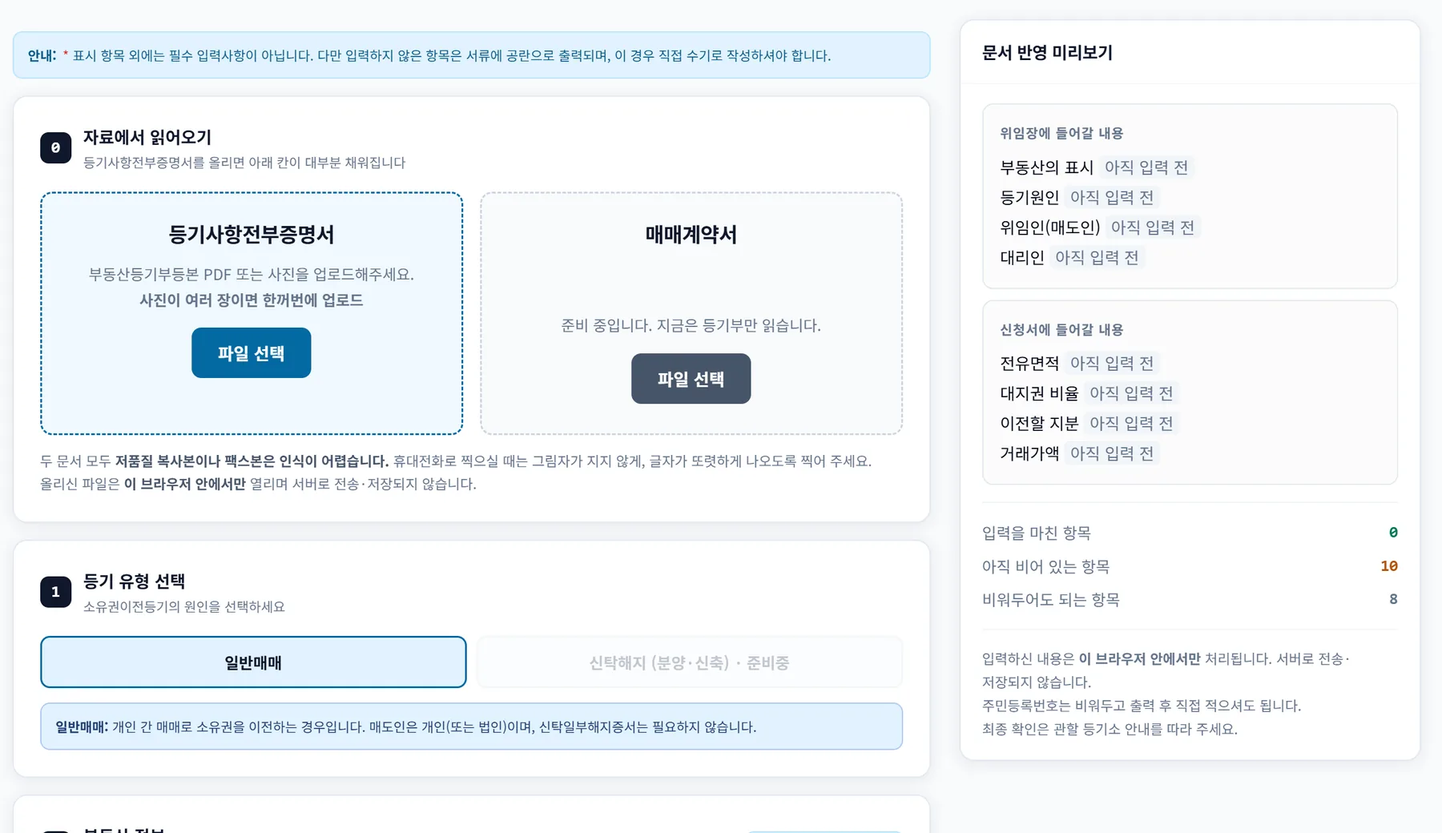
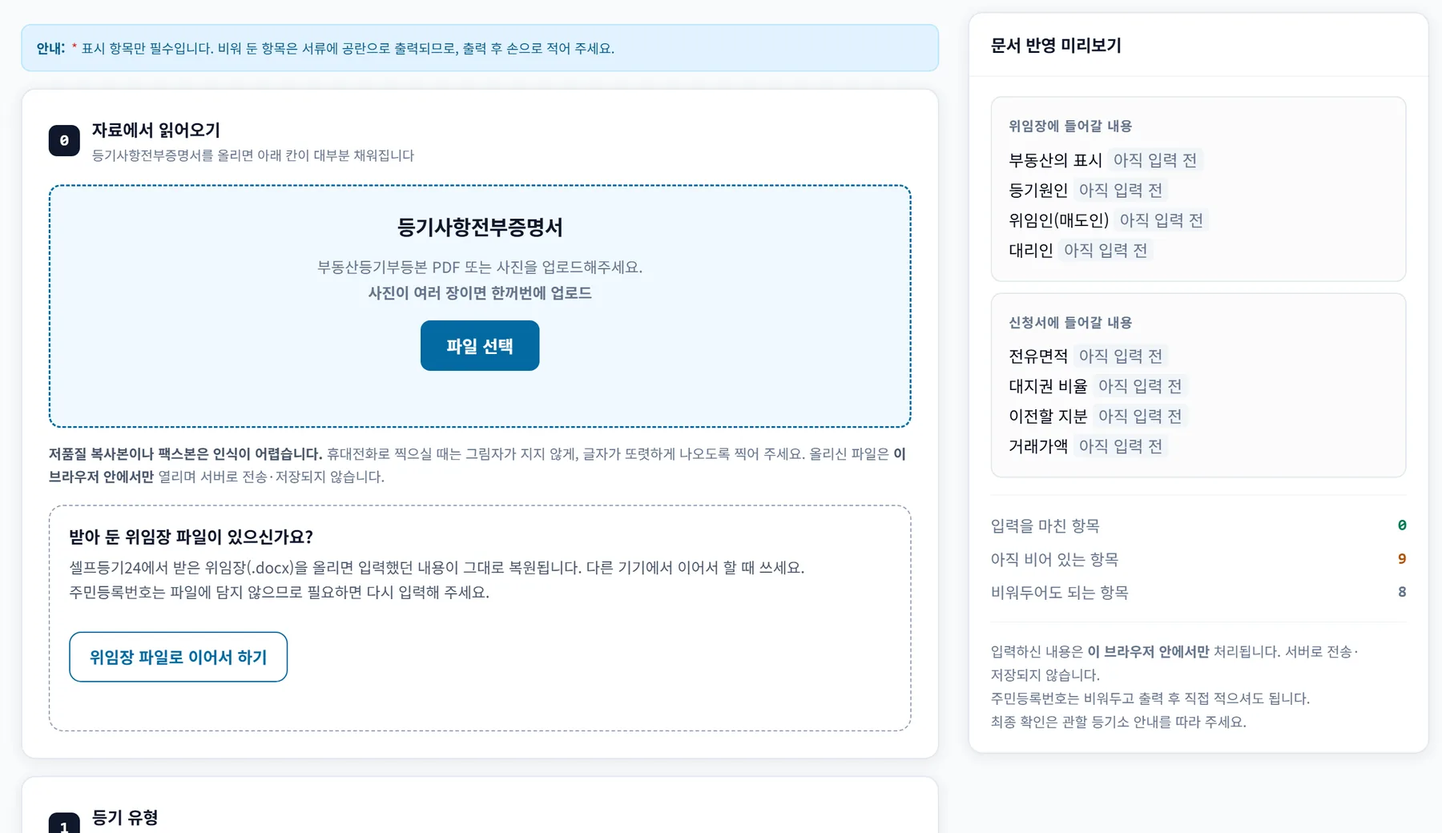
「준비 중」 노출 정리 · 토스 앱 QR 결제 안내
- 홈: 선택할 수 없던 대지지분 별도등기 카드 제거(말소를 케이스 B로), 진단 결과·FAQ를 「자동완성 대상 아님」으로, 「순차 추가 예정」 문구 삭제
- 서류 작성: 신탁해지 비활성 탭·매매계약서 업로드 칸 제거, 지원 범위(집합건물 일반매매) 명시
- 증여 계산기·가이드: 「준비 중」 문구 정리(재현 이미지 표기는 유지)
- 결제 안내: 토스 앱 결제, PC는 QR을 휴대폰 토스 앱으로 찍는다는 문구를 결제 버튼 아래·결제 안내창에 추가
- 홈 히어로 서류 작성 화면 캡처 갱신(제거된 칸 반영)

diff --git a/index.html b/index.html
@@ -41,7 +41,7 @@
 <meta name="twitter:card" content="summary_large_image">
 <link rel="canonical" href="https://www.selfregi24.com/">
 <script type="application/ld+json">
-{"@context":"https://schema.org","@type":"FAQPage","mainEntity":[{"@type":"Question","name":"셀프등기, 정말 혼자 할 수 있나요?","acceptedAnswer":{"@type":"Answer","text":"부동산등기는 법무사 선임 의무가 없어 본인이 직접 신청할 수 있습니다. 셀프등기24는 서류 자동완성 도구와 단계별 절차 안내를 제공합니다. 개별 사안의 최종 확인은 관할 등기소 안내를 따라 주세요."}},{"@type":"Question","name":"직접 하면 시간이 얼마나 드나요?","acceptedAnswer":{"@type":"Answer","text":"절차에 익숙한 정도에 따라 다릅니다. 서류 발급, 취득세 신고, 국민주택채권 매입 등 온라인으로 할 수 있는 일을 일찍 끝낼수록 줄어들고, 마지막에는 관할 등기소에 한 번 방문해 서류를 제출하면 됩니다. 셀프등기24는 단계별 가이드와 위임장·소유권이전등기 신청서 자동완성으로 정보를 찾아보고 확인하는 시간을 줄입니다."}},{"@type":"Question","name":"잔금대출이 있어도 셀프등기가 가능한가요?","acceptedAnswer":{"@type":"Answer","text":"대출 은행이 허용해야 가능합니다. 잔금대출은 은행과 연계된 법무사가 근저당권설정등기를 맡는 것이 일반적이어서, 은행이 승인하지 않으면 소유권이전등기만 직접 하기는 어렵습니다. 대출을 신청할 때 셀프등기가 가능한지 은행에 먼저 문의하세요."}},{"@type":"Question","name":"근저당권 말소도 직접 할 수 있나요?","acceptedAnswer":{"@type":"Answer","text":"대출금을 전부 상환해도 등기부 을구에 기록된 근저당권은 자동으로 지워지지 않아, 말소등기를 따로 신청해야 합니다. 직접 신청하면 공과금 실비만 들며, 등기 대상 1건 기준 11,200원입니다(등록면허세 6,000원 + 지방교육세 1,200원 + 등기신청수수료 4,000원, 서면 접수 기준). 은행은 대개 협약 법무사를 통한 말소를 안내하며 이 경우 대행 보수가 별도로 발생합니다. 절차와 준비서류는 근저당권 말소 가이드에서 무료로 확인하실 수 있습니다."}},{"@type":"Question","name":"개인정보는 어떻게 처리되나요?","acceptedAnswer":{"@type":"Answer","text":"주민등록번호 등 민감정보는 서버에 저장하지 않으며, 문서 생성은 이용자 기기 안에서 이루어집니다. 민감정보를 기재하지 않아도 서류 생성이 가능하며, 빈칸은 출력 후 손으로 기재하시면 됩니다."}},{"@type":"Question","name":"케이스 A와 B의 차이가 뭔가요?","acceptedAnswer":{"@type":"Answer","text":"케이스 A는 매매계약을 맺고 잔금을 치른 뒤 소유권을 넘겨받는 일반적인 경우입니다. 케이스 B는 건물에 대지지분(대지권)이 등기되어 있지 않아 대지권 등기를 함께 진행해야 하는 경우입니다."}}]}
+{"@context":"https://schema.org","@type":"FAQPage","mainEntity":[{"@type":"Question","name":"셀프등기, 정말 혼자 할 수 있나요?","acceptedAnswer":{"@type":"Answer","text":"부동산등기는 법무사 선임 의무가 없어 본인이 직접 신청할 수 있습니다. 셀프등기24는 서류 자동완성 도구와 단계별 절차 안내를 제공합니다. 개별 사안의 최종 확인은 관할 등기소 안내를 따라 주세요."}},{"@type":"Question","name":"직접 하면 시간이 얼마나 드나요?","acceptedAnswer":{"@type":"Answer","text":"절차에 익숙한 정도에 따라 다릅니다. 서류 발급, 취득세 신고, 국민주택채권 매입 등 온라인으로 할 수 있는 일을 일찍 끝낼수록 줄어들고, 마지막에는 관할 등기소에 한 번 방문해 서류를 제출하면 됩니다. 셀프등기24는 단계별 가이드와 위임장·소유권이전등기 신청서 자동완성으로 정보를 찾아보고 확인하는 시간을 줄입니다."}},{"@type":"Question","name":"잔금대출이 있어도 셀프등기가 가능한가요?","acceptedAnswer":{"@type":"Answer","text":"대출 은행이 허용해야 가능합니다. 잔금대출은 은행과 연계된 법무사가 근저당권설정등기를 맡는 것이 일반적이어서, 은행이 승인하지 않으면 소유권이전등기만 직접 하기는 어렵습니다. 대출을 신청할 때 셀프등기가 가능한지 은행에 먼저 문의하세요."}},{"@type":"Question","name":"근저당권 말소도 직접 할 수 있나요?","acceptedAnswer":{"@type":"Answer","text":"대출금을 전부 상환해도 등기부 을구에 기록된 근저당권은 자동으로 지워지지 않아, 말소등기를 따로 신청해야 합니다. 직접 신청하면 공과금 실비만 들며, 등기 대상 1건 기준 11,200원입니다(등록면허세 6,000원 + 지방교육세 1,200원 + 등기신청수수료 4,000원, 서면 접수 기준). 은행은 대개 협약 법무사를 통한 말소를 안내하며 이 경우 대행 보수가 별도로 발생합니다. 절차와 준비서류는 근저당권 말소 가이드에서 무료로 확인하실 수 있습니다."}},{"@type":"Question","name":"개인정보는 어떻게 처리되나요?","acceptedAnswer":{"@type":"Answer","text":"주민등록번호 등 민감정보는 서버에 저장하지 않으며, 문서 생성은 이용자 기기 안에서 이루어집니다. 민감정보를 기재하지 않아도 서류 생성이 가능하며, 빈칸은 출력 후 손으로 기재하시면 됩니다."}},{"@type":"Question","name":"대지지분 별도등기는 무엇인가요?","acceptedAnswer":{"@type":"Answer","text":"건물에 대지지분(대지권)이 등기되어 있지 않아 대지권 등기를 따로 진행해야 하는 경우입니다. 등기부등본 표제부에 「대지권의 표시」가 없으면 해당할 수 있습니다. 셀프등기24는 이 등기의 서류를 자동완성하지 않으며, 매매에 따른 소유권이전(케이스 A)과 근저당권 말소(케이스 B)를 지원합니다."}}]}
 </script><link rel="preload" as="style" href="https://fonts.googleapis.com/css2?family=Noto+Sans+KR:wght@400;500;700;800&display=swap" onload="this.onload=null;this.rel='stylesheet'">
 <noscript><link rel="stylesheet" href="https://fonts.googleapis.com/css2?family=Noto+Sans+KR:wght@400;500;700;800&display=swap"></noscript>
 <style>
@@ -789,8 +789,8 @@ footer{background:var(--bg);border-top:1px solid var(--border);margin-top:40px;p
       <div class="faq-a">주민등록번호 등 민감정보는 서버에 저장하지 않으며, 문서 생성은 이용자 기기 안에서 이루어집니다. 민감정보를 기재하지 않아도 서류 생성이 가능하며, 빈칸은 출력 후 손으로 기재하시면 됩니다.</div>
     </div>
     <div class="faq-item">
-      <button class="faq-q" onclick="toggleFaq(this)">케이스 A와 B의 차이가 뭔가요?<span class="ico">+</span></button>
-      <div class="faq-a">케이스 A는 매매계약을 맺고 잔금을 치른 뒤 소유권을 넘겨받는 일반적인 경우입니다. 케이스 B는 건물에 대지지분(대지권)이 등기되어 있지 않아 대지권 등기를 함께 진행해야 하는 경우입니다.</div>
+      <button class="faq-q" onclick="toggleFaq(this)">대지지분 별도등기는 무엇인가요?<span class="ico">+</span></button>
+      <div class="faq-a">건물에 대지지분(대지권)이 등기되어 있지 않아 대지권 등기를 따로 진행해야 하는 경우입니다. 등기부등본 표제부에 「대지권의 표시」가 없으면 해당할 수 있습니다. 셀프등기24는 이 등기의 서류를 자동완성하지 않으며, 매매에 따른 소유권이전(케이스 A)과 근저당권 말소(케이스 B)를 지원합니다.</div>
     </div>
   </div>
 </div>
@@ -850,14 +850,8 @@ footer{background:var(--bg);border-top:1px solid var(--border);margin-top:40px;p
         <div class="c-desc">매매계약을 맺고 잔금을 치른 뒤 소유권을 넘겨받는 가장 일반적인 경우</div>
         <div class="c-when">→ 위임장 및 소유권이전 신청서</div>
       </div>
-      <div class="case-card disabled" data-case="landShare" aria-disabled="true">
-        <div class="c-icon-box">B</div>
-        <div class="c-title">대지지분 별도등기</div>
-        <div class="c-desc">등기부상 건물에 '대지지분'이 없어 대지권 등기를 진행해야 하는 경우</div>
-        <div class="c-when">서비스 준비 중 — 매매 소유권이전(케이스 A)부터 순차 오픈합니다</div>
-      </div>
       <div class="case-card" data-case="cancel" onclick="selectCase('cancel')">
-        <div class="c-icon-box">C</div>
+        <div class="c-icon-box">B</div>
         <div class="c-title">근저당권 말소</div>
         <div class="c-desc">대출을 전부 상환한 뒤, 등기부에 남아 있는 근저당권을 지우는 경우</div>
         <div class="c-when">→ 절차 · 준비서류 · 비용 안내</div>
@@ -897,8 +891,8 @@ footer{background:var(--bg);border-top:1px solid var(--border);margin-top:40px;p
           <button class="opt-btn" data-q="2" data-val="no">아니오 / 모르겠습니다</button>
         </div>
       </div>
-      <div class="ntc hold" id="caseBNotice" style="display:none" role="status"><strong>진단 결과: 대지지분 별도등기(케이스 B)</strong> — 서비스 준비 중이라 서류 자동생성을 제공하지 않습니다. 절차와 준비서류는 <a href="guide.html">셀프등기 가이드</a>에서 확인하실 수 있습니다.</div>
-      <div class="ntc inf"><strong>진단 결과에 따라 케이스가 자동으로 선택됩니다.</strong> 상속·증여 등 다른 등기 케이스도 순차적으로 추가될 예정입니다.</div>
+      <div class="ntc hold" id="caseBNotice" style="display:none" role="status"><strong>진단 결과: 대지지분 별도등기</strong> — 셀프등기24는 이 등기의 서류를 자동완성하지 않습니다. 절차와 준비서류는 <a href="guide.html">셀프등기 가이드</a>에서 확인하실 수 있습니다.</div>
+      <div class="ntc inf"><strong>진단 결과에 따라 케이스가 자동으로 선택됩니다.</strong></div>
     </div>
   </div>
 </div>
@@ -961,8 +955,8 @@ footer{background:var(--bg);border-top:1px solid var(--border);margin-top:40px;p
 /* ===== 케이스 선택 ===== */
 const CASES = {
   general:   { label:'매매계약에 따른 소유권이전 (케이스 A)', url:'normal_form.html',  cta:'이 케이스로 서류 작성 시작하기 →' },
-  landShare: { label:'대지지분 별도등기 (케이스 B · 준비 중)', url:'land_form.html',    cta:'준비 중 — 입력 화면 미리 보기 →' },
-  cancel:    { label:'근저당권 말소 (케이스 C)',          url:'cancel_guide.html', cta:'이 케이스 안내 보기 →' }
+  landShare: { label:'대지지분 별도등기', url:'guide.html',    cta:'셀프등기 가이드 보기 →' },
+  cancel:    { label:'근저당권 말소 (케이스 B)',          url:'cancel_guide.html', cta:'이 케이스 안내 보기 →' }
 };
 /* 접근성: 선택형 카드에 키보드 조작 부여(마우스 전용 → 키보드 사용자도 선택 가능) */
 document.addEventListener('DOMContentLoaded',function(){
@@ -1078,7 +1072,7 @@ document.querySelectorAll('.opt-btn').forEach(btn => {
     if(q==='2'){
       /* 케이스 B는 사라지는 토스트가 아니라 남는 안내로 처리한다(다음 행동이 없는 종착 상태) */
       var bn=document.getElementById('caseBNotice');
-      if(val==='yes'){ if(bn) bn.style.display='block'; showToast('대지지분 별도등기(케이스 B)는 현재 준비 중입니다'); }
+      if(val==='yes'){ if(bn) bn.style.display='block'; showToast('대지지분 별도등기는 서류 자동완성 대상이 아닙니다'); }
       else{ if(bn) bn.style.display='none'; decide('general'); }
     }
   });

diff --git a/guide.html b/guide.html
@@ -602,9 +602,9 @@ gtag('js',new Date());gtag('config','G-DR3W5XWF50');
         <li><b>매입할 은행 선택 (하나은행 예시)</b> 금액을 확인했으면 '국민주택채권매입' 메뉴로 돌아와 본인이 이용할 은행을 선택합니다. 여기서는 '하나은행'을 기준으로 설명합니다.</li>
         <li><b>하나은행 홈페이지 검색창 이용</b> 하나은행 홈페이지에 로그인 후, 우측 상단 돋보기(검색) 아이콘을 누르고 '국민주택채권매입'을 검색합니다.</li>
         <li><b>채권 매입 메뉴로 이동</b> 검색 결과 중 '개인뱅킹 &gt; 주택도시기금 &gt; 국민주택채권 매입' 메뉴를 찾아 클릭하여 진입합니다.</li>
-        <li><b>매입자 정보 및 즉시매도 선택</b> 본인 매입 여부를 체크하고, 앞서 주택도시기금에서 계산해둔 '채권매입금액'을 정확히 입력합니다. 팁: 매도 방법은 대부분 '즉시매도'를 선택합니다. 채권을 5년간 보유할 계획이 아니라면 즉시매도를 선택해 할인된 본인부담금만 내는 방식이 일반적입니다. (재현 이미지 — 실제 화면 캡처는 준비 중입니다)</li>
-        <li><b>본인부담금 결제 및 인증</b> 수수료 등이 포함된 최종 '본인부담금'을 확인하고, 출금 계좌 비밀번호와 공동/금융인증서 암호를 입력해 결제를 진행합니다. (재현 이미지 — 실제 화면 캡처는 준비 중입니다)</li>
-        <li><b>채권발행번호 확인 및 저장</b> 결제가 완료되면 매입 영수증이 나타납니다. 팁: 영수증에 적힌 채권발행번호는 소유권이전등기 신청서에 그대로 옮겨 적는 값입니다. 아래 저장칸에 입력해 두면 서류 작성 시 자동으로 채워집니다. (재현 이미지 — 실제 화면 캡처는 준비 중입니다)</li>
+        <li><b>매입자 정보 및 즉시매도 선택</b> 본인 매입 여부를 체크하고, 앞서 주택도시기금에서 계산해둔 '채권매입금액'을 정확히 입력합니다. 팁: 매도 방법은 대부분 '즉시매도'를 선택합니다. 채권을 5년간 보유할 계획이 아니라면 즉시매도를 선택해 할인된 본인부담금만 내는 방식이 일반적입니다. (재현 이미지)</li>
+        <li><b>본인부담금 결제 및 인증</b> 수수료 등이 포함된 최종 '본인부담금'을 확인하고, 출금 계좌 비밀번호와 공동/금융인증서 암호를 입력해 결제를 진행합니다. (재현 이미지)</li>
+        <li><b>채권발행번호 확인 및 저장</b> 결제가 완료되면 매입 영수증이 나타납니다. 팁: 영수증에 적힌 채권발행번호는 소유권이전등기 신청서에 그대로 옮겨 적는 값입니다. 아래 저장칸에 입력해 두면 서류 작성 시 자동으로 채워집니다. (재현 이미지)</li>
       </ol>
       <h4>전자수입인지 구매·출력</h4>
       <ol>
@@ -814,9 +814,9 @@ var SHOTS=[
     {img:"gigum_4.webp",t:"매입할 은행 선택 (하나은행 예시)",d:"금액을 확인했으면 '국민주택채권매입' 메뉴로 돌아와 본인이 이용할 은행을 선택합니다. 여기서는 '하나은행'을 기준으로 설명합니다."},
     {img:"gigum_5.webp",t:"하나은행 홈페이지 검색창 이용",d:"하나은행 홈페이지에 로그인 후, 우측 상단 돋보기(검색) 아이콘을 누르고 '국민주택채권매입'을 검색합니다."},
     {img:"gigum_6.webp",t:"채권 매입 메뉴로 이동",d:"검색 결과 중 '개인뱅킹 > 주택도시기금 > 국민주택채권 매입' 메뉴를 찾아 클릭하여 진입합니다."},
-    {img:"gigum_8.svg",t:"매입자 정보 및 즉시매도 선택",d:"본인 매입 여부를 체크하고, 앞서 주택도시기금에서 계산해둔 '채권매입금액'을 정확히 입력합니다. ★ 매도 방법은 대부분 '즉시매도'를 선택합니다. 채권을 5년간 보유할 계획이 아니라면 즉시매도를 선택해 할인된 본인부담금만 내는 방식이 일반적입니다. (재현 이미지 — 실제 화면 캡처는 준비 중입니다)"},
-    {img:"gigum_9.svg",t:"본인부담금 결제 및 인증",d:"수수료 등이 포함된 최종 '본인부담금'을 확인하고, 출금 계좌 비밀번호와 공동/금융인증서 암호를 입력해 결제를 진행합니다. (재현 이미지 — 실제 화면 캡처는 준비 중입니다)"},
-    {img:"gigum_10.svg",t:"채권발행번호 확인 및 저장",d:"결제가 완료되면 매입 영수증이 나타납니다. ★ 영수증에 적힌 채권발행번호는 소유권이전등기 신청서에 그대로 옮겨 적는 값입니다. 아래 저장칸에 입력해 두면 서류 작성 시 자동으로 채워집니다. (재현 이미지 — 실제 화면 캡처는 준비 중입니다)"}
+    {img:"gigum_8.svg",t:"매입자 정보 및 즉시매도 선택",d:"본인 매입 여부를 체크하고, 앞서 주택도시기금에서 계산해둔 '채권매입금액'을 정확히 입력합니다. ★ 매도 방법은 대부분 '즉시매도'를 선택합니다. 채권을 5년간 보유할 계획이 아니라면 즉시매도를 선택해 할인된 본인부담금만 내는 방식이 일반적입니다. (재현 이미지)"},
+    {img:"gigum_9.svg",t:"본인부담금 결제 및 인증",d:"수수료 등이 포함된 최종 '본인부담금'을 확인하고, 출금 계좌 비밀번호와 공동/금융인증서 암호를 입력해 결제를 진행합니다. (재현 이미지)"},
+    {img:"gigum_10.svg",t:"채권발행번호 확인 및 저장",d:"결제가 완료되면 매입 영수증이 나타납니다. ★ 영수증에 적힌 채권발행번호는 소유권이전등기 신청서에 그대로 옮겨 적는 값입니다. 아래 저장칸에 입력해 두면 서류 작성 시 자동으로 채워집니다. (재현 이미지)"}
   ]},
   {key:"stamp",flowStep:2,meta:["비회원 구매 가능","출력 1회 한정"],title:"전자수입인지 구매·출력",desc:"등기소 제출 서류에 붙일 전자수입인지를 온라인으로 구매하는 방법",steps:[
     {img:"estamp_1r.webp",t:"전자수입인지 사이트 접속 및 종류 선택",d:"전자수입인지.kr에 접속하면 두 종류가 나옵니다. 등기소에 종이로 제출할 서류에 붙이는 것이므로 반드시 '종이문서용 전자수입인지'를 선택하세요('전자문서용'이 아닙니다). (실제 화면)"},
@@ -1064,7 +1064,7 @@ function render(){
   document.getElementById('gmCount').textContent=(step+1)+' / '+cur.steps.length;
   var wrap=document.getElementById('gmImg');wrap.innerHTML='';
   var im=new Image();im.src=s.img;im.alt=s.t+' — 누르면 크게 볼 수 있습니다';im.title='누르면 크게 보기';
-  im.onerror=function(){wrap.innerHTML='<div class="gm-fallback"><b>이미지 준비 중입니다</b>('+s.img+')<br>아래 설명을 참고해 주세요.</div>';};
+  im.onerror=function(){wrap.innerHTML='<div class="gm-fallback"><b>이미지를 불러오지 못했습니다</b>('+s.img+')<br>아래 설명을 참고해 주세요.</div>';};
   im.addEventListener('click',function(){openZoom(s.img,(step+1)+'. '+s.t);});
   wrap.appendChild(im);
   for(var k=1;k<=2;k++){var nx=cur.steps[step+k];if(nx){var pi=new Image();pi.src=nx.img;}} /* 다음 2장 미리 받기 — '다음'을 누를 때 대기 없앰 */

diff --git a/normal_form.html b/normal_form.html
@@ -265,7 +265,7 @@ footer{text-align:center;padding:18px;font-size:11px;color:#64748B;max-width:120
 @media(max-width:520px){.fg,.fg.s3,.dg{grid-template-columns:1fr}.gm-overlay{padding:0}.gm-box{border-radius:0;min-height:100vh}}
 
 /* ── 자료에서 읽어오기 (2026.8) ── */
-.slots{display:grid;grid-template-columns:1fr 1fr;gap:14px}
+.slots{display:grid;grid-template-columns:1fr;gap:14px}
 @media(max-width:760px){.slots{grid-template-columns:1fr}}
 .drop{border:1.5px dashed var(--blue);border-radius:10px;background:#F0F9FF;padding:20px;text-align:center;transition:background .15s}
 .drop.alt{border-color:#CBD5E1;background:var(--bg)}
@@ -357,16 +357,9 @@ font-size:12px;background:var(--bg);border:1px solid var(--border);border-radius
       <div class="pr" id="pr-reg"><i></i></div>
       <div class="plg" id="lg-reg"></div>
     </div>
-    <div class="drop alt" id="dz-deal">
-      <div class="slot-t">매매계약서</div>
-      <div class="sub"><br><br>준비 중입니다. 지금은 등기부만 읽습니다.</div>
-      <label class="fb" for="fi-deal">파일 선택</label>
-      <input type="file" id="fi-deal" accept="application/pdf,image/*" style="display:none">
-      <div class="pr" id="pr-deal"><i></i></div>
-    </div>
   </div>
 
-  <div class="nt" style="margin-top:12px">두 문서 모두 <b>저품질 복사본이나 팩스본은 인식이 어렵습니다.</b>
+  <div class="nt" style="margin-top:12px"><b>저품질 복사본이나 팩스본은 인식이 어렵습니다.</b>
     휴대전화로 찍으실 때는 그림자가 지지 않게, 글자가 또렷하게 나오도록 찍어 주세요.
     올리신 파일은 <b>이 브라우저 안에서만</b> 열리며 서버로 전송·저장되지 않습니다.</div>
 
@@ -397,13 +390,12 @@ font-size:12px;background:var(--bg);border:1px solid var(--border);border-radius
 
 <!-- 등기 유형 선택 (최상단) -->
 <div class="card">
-  <div class="ch"><div class="ci">1</div><div><div class="ct">등기 유형 선택</div><div class="cs">소유권이전등기의 원인을 선택하세요</div></div></div>
+  <div class="ch"><div class="ci">1</div><div><div class="ct">등기 유형</div><div class="cs">이 화면에서 작성하는 등기입니다</div></div></div>
   <div class="deal-tab">
-    <button class="deal-tab-btn active" onclick="switchDeal('sale', this)">일반매매</button>
-    <button class="deal-tab-btn" onclick="switchDeal('trust', this)" disabled title="준비 중입니다">신탁해지 (분양·신축) · 준비중</button>
+    <button class="deal-tab-btn active" onclick="switchDeal('sale', this)">일반매매 (아파트·오피스텔 등 집합건물)</button>
   </div>
   <div class="ntc inf2" id="deal-desc" style="margin-top:12px">
-    <strong>일반매매:</strong> 개인 간 매매로 소유권을 이전하는 경우입니다. 매도인은 개인(또는 법인)이며, 신탁일부해지증서는 필요하지 않습니다.
+    <strong>일반매매:</strong> 매매계약에 따라 소유권을 이전하는 경우입니다. 매도인은 개인(또는 법인)입니다. 분양·신축 아파트의 신탁해지, 토지·단독주택은 이 화면에서 작성하지 않습니다.
   </div>
 </div>
 
@@ -791,7 +783,7 @@ font-size:12px;background:var(--bg);border:1px solid var(--border);border-radius
     </div>
     <span class="pay-arrow" id="pay-arrow">→</span>
   </button>
-  <p class="pay-note" id="pay-note">결제는 새 창에서 진행되며, 입력하신 내용은 이 화면에 그대로 남습니다. 입력 내용은 이 기기에만 저장되니 서류를 인쇄할 기기에서 진행하시면 편합니다. 다른 기기에서는 받아 둔 위임장 파일로 이어서 할 수 있습니다.</p>
+  <p class="pay-note" id="pay-note">토스 앱으로 결제합니다. PC에서는 화면에 뜨는 QR 코드를 휴대폰 토스 앱으로 찍으면 됩니다. 결제는 새 창에서 진행되며, 입력하신 내용은 이 화면에 그대로 남습니다. 입력 내용은 이 기기에만 저장되니 서류를 인쇄할 기기에서 진행하시면 편합니다. 다른 기기에서는 받아 둔 위임장 파일로 이어서 할 수 있습니다.</p>
   <div class="svc-terms">
     <div class="svc-terms-h">서비스 제공 방식과 시점</div>
     <dl class="svc-terms-l">
@@ -1139,7 +1131,7 @@ function renderPayState(){
     var url=SRPay.reissueUrl();
     note.innerHTML='재발급 링크: <a href="'+url+'" style="word-break:break-all">'+url.replace(/^https?:\/\//,'').slice(0,48)+'…</a> — 다른 기기에서도 이 링크로 다시 받으실 수 있습니다.';
   } else {
-    note.textContent='결제는 새 창에서 진행되며, 입력하신 내용은 이 화면에 그대로 남습니다.';
+    note.textContent='토스 앱으로 결제합니다. PC에서는 화면에 뜨는 QR 코드를 휴대폰 토스 앱으로 찍으면 됩니다. 결제는 새 창에서 진행되며, 입력하신 내용은 이 화면에 그대로 남습니다.';
   }
 }
 window.addEventListener('srpay:change', function(e){

diff --git a/pay.js b/pay.js
@@ -157,7 +157,8 @@
         '<div class="srp-card">' +
         '<div id="srpay-h" class="srp-h">서류 자동완성 · 부동산 1건 ' + PRICE_LABEL + '</div>' +
         '<p class="srp-d">결제 후 서류는 두 번에 나눠 받습니다. <b>위임장</b>은 결제 직후 바로, <b>소유권이전등기신청서</b>는 취득세·국민주택채권·등기신청수수료 등 제세공과금을 납부한 뒤 납부하면서 받은 번호를 입력하면 완성됩니다. 한 번 결제로 두 서류가 모두 포함되며, 부가세 포함·추가 요금은 없습니다.</p>' +
-        '<ul class="srp-l"><li>결제일부터 30일, 동일 부동산·동일 매수인은 횟수 제한 없이 재발급</li>' +
+        '<ul class="srp-l"><li>토스 앱으로 결제합니다. PC에서는 화면의 QR 코드를 휴대폰 토스 앱으로 찍습니다</li>' +
+        '<li>결제일부터 30일, 동일 부동산·동일 매수인은 횟수 제한 없이 재발급</li>' +
         '<li>등기소 보정 요구에 따른 재작성도 재발급으로 처리</li>' +
         '<li>문서 오류 등 회사 귀책은 전액 환불 (<a href="terms.html#a6" target="_blank" rel="noopener">이용약관 제6조</a>)</li></ul>' +
         '<button type="button" class="srp-go">토스페이로 ' + PRICE_LABEL + ' 결제</button>' +

diff --git a/gift_tax.html b/gift_tax.html
@@ -296,7 +296,7 @@ footer{border-top:1px solid var(--border);background:#fff;padding:26px 16px 40px
       <a href="calculator.html" class="s">매매 취득세 계산기</a>
     </div>
     <div class="ntc info">
-      증여 등기 서류 자동생성은 준비 중입니다. 현재는 매매(소유권이전)와 근저당권 말소를 지원합니다.
+      셀프등기24의 서류 자동완성은 매매에 따른 소유권이전과 근저당권 말소를 지원합니다. 증여 등기 서류는 자동완성하지 않습니다.
     </div>
   </div>
   </div>
